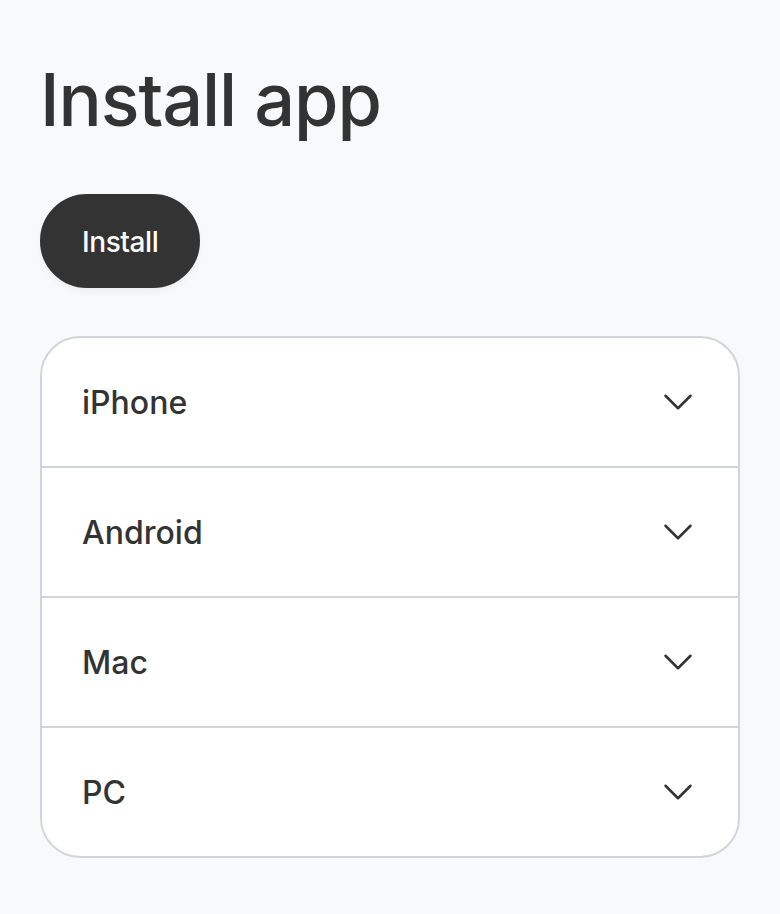
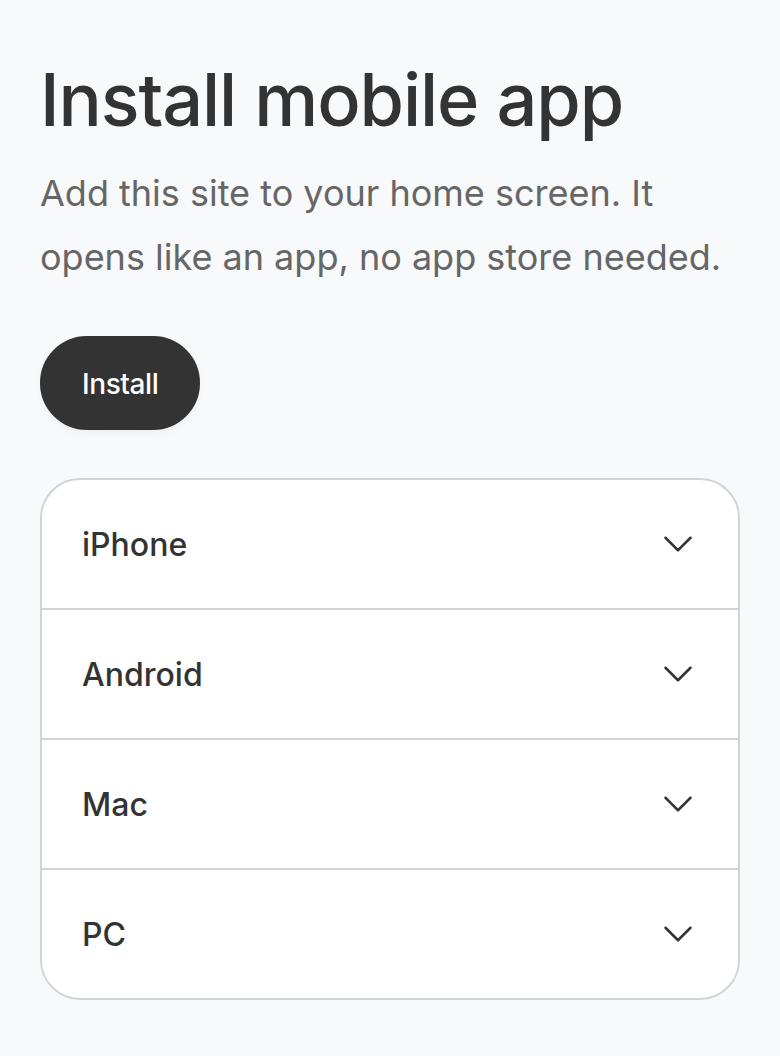
Clarify the install page title, subtitle, and iPhone steps
The page is titled Install mobile app and explains adding the site to
the home screen. The Plugins row stays Install app.

diff --git a/test/dummy/test/integration/pwa_foundation_test.rb b/test/dummy/test/integration/pwa_foundation_test.rb
@@ -34,8 +34,9 @@ class PwaFoundationTest < ActionDispatch::IntegrationTest
     get pwa_install_path
 
     assert_response :success
-    assert_select "h1", text: "Install app"
-    assert_select "title", text: "Install app"
+    assert_select "h1", text: "Install mobile app"
+    assert_select "title", text: "Install mobile app"
+    assert_select "p", text: "Add this site to your home screen. It opens like an app, no app store needed.", count: 1
     refute_includes response.body, "Open it in its own window"
     assert_select "body[data-recording-studio-default-layout='true']", count: 1
     assert_select "nav[aria-label='Page navigation']", count: 1
@@ -52,9 +53,11 @@ class PwaFoundationTest < ActionDispatch::IntegrationTest
     assert_select "[aria-controls='mac-content'] span.font-medium", text: "Mac", count: 1
     assert_select "[aria-controls='pc-content'] span.font-medium", text: "PC", count: 1
     assert_select "svg.w-5.h-5[data-flat-pack--accordion-target='icon']", count: 4
-    assert_includes response.body, "Open Share in Safari."
-    assert_includes response.body, "Choose Add to Home Screen."
-    assert_includes response.body, "Tap Add. The icon appears on your home screen."
+    assert_includes response.body, "Open this page in Safari."
+    assert_includes response.body, "Tap the Share button (the square with an up arrow)."
+    assert_includes response.body, "Scroll down and tap Add to Home Screen."
+    assert_includes response.body, "Tap Add. The app appears on your home screen."
+    refute_includes response.body, "Open Share in Safari."
     assert_includes response.body, "Open the Chrome menu."
     assert_includes response.body, "Choose Install app or Add to Home Screen."
     assert_includes response.body, "Confirm. The icon appears on your home screen."
@@ -83,7 +86,7 @@ class PwaFoundationTest < ActionDispatch::IntegrationTest
     get pwa_install_path
 
     assert_response :success
-    assert_select "h1", text: "Install app"
+    assert_select "h1", text: "Install mobile app"
   end
 
   test "gem default web app name is literal english App when host name is blank" do

diff --git a/test/recording_studio_pwa_test.rb b/test/recording_studio_pwa_test.rb
@@ -121,6 +121,7 @@ class RecordingStudioPwaTest < Minitest::Test
     refute File.exist?(File.expand_path("dummy/app/slices/install_slice.rb", __dir__))
     refute File.exist?(File.expand_path("dummy/app/controllers/pwa/installs_controller.rb", __dir__))
     assert_includes install_view, 't("recording_studio.pwa.install.title")'
+    assert_includes install_view, "content_for :subtitle"
     refute_includes install_view, "subtitle:"
     assert_includes install_view, "FlatPack::Accordion::Component.new"
     assert_includes install_view, "RecordingStudioPwa::InstallSlice::DEVICES"

diff --git a/lib/recording_studio_pwa/plugin_directory.rb b/lib/recording_studio_pwa/plugin_directory.rb
@@ -28,7 +28,7 @@ module RecordingStudioPwa
 
     def attributes
       {
-        name: text("title"),
+        name: text("plugin_name"),
         description: text("plugin_description"),
         category: :other,
         icon: "arrow-down-tray",

diff --git a/docs/pwa.md b/docs/pwa.md
@@ -77,7 +77,7 @@ While some recordable type enables `:install`, the gem draws `GET /pwa/install` 
 
 ## Install page
 
-`/pwa/install` is a public static page. It does not require a signed-in session. The title is **Install app**. Device steps live in a FlatPack accordion (iPhone, Android, Mac, PC). The page uses `UsesPwaLayout`.
+`/pwa/install` is a public static page. It does not require a signed-in session. The title is **Install mobile app**, with a one-sentence subtitle under it. Device steps live in a FlatPack accordion (iPhone, Android, Mac, PC). The page uses `UsesPwaLayout`.
 
 A Stimulus controller (`recording-studio-pwa--install`) listens for `beforeinstallprompt`. When the browser offers one, a primary **Install** button calls `prompt()`. `appinstalled` hides the button. If the app is already running `display-mode: standalone`, the page says the app is already on this device. Browsers that never fire the prompt (iPhone Safari, Mac Safari, Firefox) leave the button hidden and open the accordion for that device. Without JavaScript the accordion is closed and the steps are still in the page.
 
@@ -123,7 +123,7 @@ Configuration is host PWA chrome plus `plugin_directory` (default `false`). The 
 - The dummy host name is **Recording Studio PWA**. That value is what `/manifest`, `apple-mobile-web-app-title`, and the browser install prompt should show.
 - Dummy icons are `/icon.png` and `/icon.svg` — a charcoal rounded-theme mark, not the red template circle.
 - `/` is still the Template Demo on Recording Studio's default layout. That page is dummy chrome, not a product screen.
-- `/pwa/install` is the gem install page on the same layout. The page title is **Install app**. Device steps live in a FlatPack accordion (iPhone, Android, Mac, PC). Signed-out visitors can open it. The **Install** button stays hidden until the browser fires `beforeinstallprompt`.
+- `/pwa/install` is the gem install page on the same layout. The page title is **Install mobile app**. Device steps live in a FlatPack accordion (iPhone, Android, Mac, PC). Signed-out visitors can open it. The **Install** button stays hidden until the browser fires `beforeinstallprompt`.
 - `/manifest` and `/service-worker` are the Rails PWA endpoints. `/manifest` returns JSON, including when the request `Accept` is `text/html` (via the gem's `pwa/manifest.html.erb`)
 - Workspace enables `:install`; Folder and Page do not
 

diff --git a/CHANGELOG.md b/CHANGELOG.md
@@ -10,7 +10,7 @@ and this project adheres to [Semantic Versioning](https://semver.org/spec/v2.0.0
 ## [0.11.0] - 2026-11-20
 
 ### Added
-- Gem-owned install page at `/pwa/install` (FlatPack accordion for iPhone, Android, Mac, and PC) on the PWA layout
+- Gem-owned install page at `/pwa/install`, titled **Install mobile app**, with a one-sentence subtitle and a FlatPack accordion for iPhone, Android, Mac, and PC
 - Install button that calls the browser install prompt when `beforeinstallprompt` fires, and an already-installed state in standalone mode
 - English copy under `recording_studio.pwa.install` so hosts can override it
 - `config.plugin_directory` (default `false`). When true, and `recording_studio_plugins` is loaded, the gem registers a Plugins directory row whose action opens the install page

diff --git a/test/dummy/README.md b/test/dummy/README.md
@@ -31,7 +31,7 @@ Then open the app and sign in with:
 ## Useful Routes
 
 - `/` - Template Demo on the shared Recording Studio layout
-- `/pwa/install` - gem install page titled **Install app**, with FlatPack accordion steps for iPhone, Android, Mac, and PC. Public, including when signed out
+- `/pwa/install` - gem install page titled **Install mobile app**, with FlatPack accordion steps for iPhone, Android, Mac, and PC. Public, including when signed out
 - `/manifest` - host web app manifest (`name` / `short_name` are Recording Studio PWA). JSON for any Accept, including `text/html`
 - `/service-worker` - host service worker
 - `/recording_studio` - redirects to `/` while the mounted Recording Studio engine stays available under that prefix for non-root routes

diff --git a/README.md b/README.md
@@ -56,7 +56,7 @@ The login form is prefilled with these credentials for fast access.
 ### Useful Routes
 
 - `/` — Template Demo on the shared Recording Studio layout
-- `/pwa/install` — gem install page titled **Install app**, with FlatPack accordion steps for iPhone, Android, Mac, and PC. Public. The Install button appears when the browser offers a prompt
+- `/pwa/install` — gem install page titled **Install mobile app**, with FlatPack accordion steps for iPhone, Android, Mac, and PC. Public. The Install button appears when the browser offers a prompt
 - `/manifest` — host web app manifest (JSON for any `Accept`, including `text/html`)
 - `/service-worker` — host service worker
 - `/users/sign_in` — Devise sign-in page
